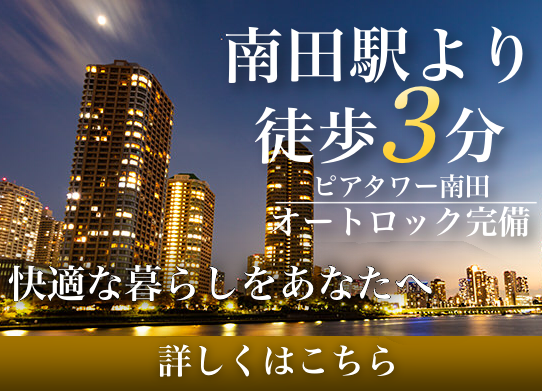
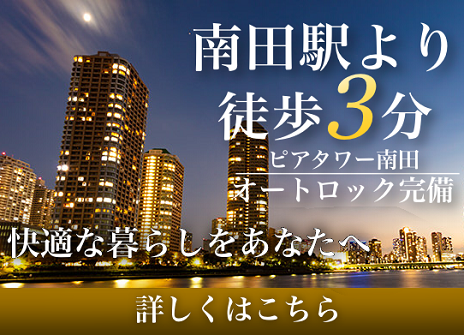
位置の微調整

diff --git a/banner_01.html b/banner_01.html
@@ -41,7 +41,7 @@
 <ul class="product__list--banner">
          <li class="product__item--banner">
            <img class="product__img--banner" src="img/banner_mansion.png">
-            <p class="product__text--banner">
+           <p class="product__text--banner">
            マンションの広告です。<br>明朝体の文字や白・金の配色で高級感を出しました。<br>アピールポイントやキャッチコピーがより効果的に伝わるよう、Z型に動く視線の流れを特に意識し配置しています。
            </p>
         </li>

diff --git a/css/style.css b/css/style.css
@@ -527,6 +527,7 @@ works詳細
   width: 542px;
   height: 500px;
   margin-right: 30px;
+  vertical-align: top;
 }
 
 /*---分析のページ---*/
@@ -594,6 +595,7 @@ span{
   /*-----フッター-----*/
 .footer{
   height: 80px;
+  text-align: start;
 }
 
 
@@ -601,6 +603,9 @@ span{
   margin-top: -70px;
 }
 
+.copy{
+  margin-left: 160px;
+}
 
 /*-------------
 index
